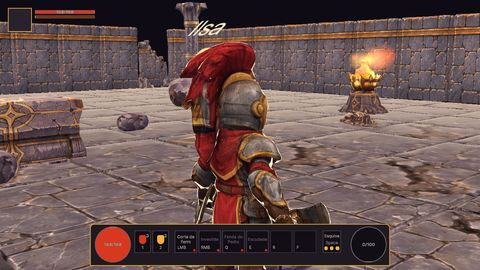
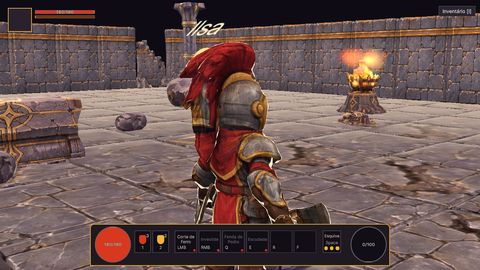
feat(painel): inventário completo e build final da noite

diff --git a/docs/progresso/painel.html b/docs/progresso/painel.html
@@ -99,9 +99,9 @@ table{border-collapse:collapse;width:100%}td,th{text-align:left;padding:6px 10px
 .votacao{--v-fundo:var(--media);--v-borda:var(--clara);--v-texto:var(--perg);--v-mut:var(--clara);--v-nome:var(--ouro-claro);--v-destaque:var(--ouro);--v-campo:var(--noite);--v-botao:var(--ouro);--v-botao-txt:var(--noite)}.v-tit{font-family:var(--f-txt)}.topo a{color:var(--ouro-claro)}</style>
 <main>
 <section class="topo"><h1>Echoes of the Shatter</h1>
-<p class="sub">Etapa 2 quase toda entregue; Etapa 3 em andamento. Atualizado em 17/10/2026.</p>
+<p class="sub">Etapa 2 quase toda entregue; Etapa 3 em andamento (inventário pronto). Atualizado em 17/10/2026.</p>
 <p class="sub"><a href="#aguardando">Votar nas perguntas</a> · <a href="https://claude.ai/artifact/5G5WBocgrp8NAeLKiF9FP8" target="_blank" rel="noopener">Roteiro completo: documentos e artes ↗</a></p>
-<p class="dest"><b>Teste o jogo: abra D:\openclaude\Builds\Echoes_Cripta_dev\EchoesOfTheShatter.exe</b><span>Build jogável com menu e escolha de herói (Arqueiro e Mago como prévia visual), Refúgio com a Ilsa (expedição) e o Tico (relatório), save com backups e expedição idle de ponta a ponta. Cripta e Refúgio com cenário pintado (26 peças) e fogo; inimigos pintados e animados; Guerreiro modular com armadura em peças; HUD com barra do chefe e fila de avisos. 238 EditMode e 11 PlayMode; cerca de 1 ms por quadro numa RTX 4060 Ti (não é o PC de entrada). Controles no LEIA-ME.txt; roteiro no docs/10.</span></p>
+<p class="dest"><b>Teste o jogo: abra D:\openclaude\Builds\Echoes_Cripta_dev\EchoesOfTheShatter.exe</b><span>Build jogável com menu e escolha de herói (Arqueiro e Mago como prévia visual), Refúgio com a Ilsa (expedição) e o Tico (relatório), save com backups e expedição idle de ponta a ponta. Cripta e Refúgio com cenário pintado (26 peças) e fogo; inimigos pintados e animados; Guerreiro modular com armadura em peças; HUD com barra do chefe e fila de avisos. 238 EditMode e 11 PlayMode; cerca de 1 ms por quadro numa RTX 4060 Ti (não é o PC de entrada). Controles no LEIA-ME.txt; roteiro no docs/10. Agora com inventário completo (seção 4 do LEIA-ME): loot no chão com feixe de raridade, tela na tecla I com boneco modular, tooltip com comparação e valor de venda, Mochila 40 e Baú 100 [HIPÓTESE].</span></p>
 <div class="faixa">
 <a class="andamento" href="#s-arte"><b>Direção de arte</b>Em andamento</a>
 <a class="andamento" href="#s-design"><b>Game Design</b>Em andamento</a>
@@ -116,10 +116,10 @@ table{border-collapse:collapse;width:100%}td,th{text-align:left;padding:6px 10px
 <a class="andamento" href="#s-producao"><b>Produção</b>Em andamento</a>
 </div>
 <div class="cont">
-<div>16<span>aguardando você</span></div>
+<div>15<span>aguardando você</span></div>
 <div>0<span>sessões na nuvem</span></div>
 <div>5/11<span>setores concluídos</span></div>
-<div>13/15<span>marcos</span></div>
+<div>14/16<span>marcos</span></div>
 </div>
 <div class="etapas">
 <div class="etapa concluido"><b>Etapa 1</b>Base técnica<br><span class="pil concluido"><i></i>Concluído</span></div>
@@ -146,7 +146,6 @@ table{border-collapse:collapse;width:100%}td,th{text-align:left;padding:6px 10px
 <article class="card alerta pend"><h3>Para que serve o Ouro</h3><p class="perg">No protótipo, para que serve o Ouro?</p><details open><summary>Contexto</summary><p>Baús e inimigos já dão Ouro, mas o protótipo não tem onde gastar.</p><p>Itens de raridade sobem de valor de venda; o core vai calcular o valor de venda por nível e raridade.</p></details><div class="votacao" data-q="uso-do-ouro"></div><span class="arq">docs/16_etapa3_fluxo.md (Q3-3)</span></article>
 <article class="card alerta pend"><h3>Segundo visual de armadura</h3><p class="perg">Fazemos já um segundo conjunto de armadura do Guerreiro (por exemplo, o de raridade Rara) para ver o equipamento mudando o visual no protótipo?</p><details open><summary>Contexto</summary><p>Os heróis são modulares: cada peça troca com o item equipado.</p><p>Hoje só existe o conjunto inicial; itens Mágicos e Raros mudam só a tinta do tecido.</p><p>Um conjunto novo segue o mesmo caminho: folha do herói vestido no gpt-image, modelo 3D, acabamento e corte em 5 peças. Você aprova a arte antes.</p></details><div class="votacao" data-q="segundo-conjunto"></div><span class="arq">docs/16_etapa3_fluxo.md (Q3-4)</span></article>
 <article class="card alerta pend"><h3>Baixar as animações do Mixamo</h3><p class="perg">Você baixa agora as animações do Mixamo da lista em docs/arte/animacao_mixamo.md?</p><details open><summary>Contexto</summary><p>Precisa da sua conta Adobe.</p><p>Não bloqueia nada: o pacote CC0 e o Blender por script já cobrem o básico.</p></details><div class="votacao" data-q="mixamo-download"></div><span class="arq">docs/arte/animacao_mixamo.md</span></article>
-<article class="card alerta pend"><h3>Iniciar a sessão de inventário e equipamento</h3><p class="perg">Iniciamos agora a sessão de inventário e equipamento da Etapa 3 na nuvem, ou fazemos no PC?</p><details open><summary>Contexto</summary><p>Faltam o inventário, o loot no chão e as telas finais para fechar a Etapa 3.</p><p>As telas finais esperam a aprovação dos mockups.</p><p>A sessão fica como cartão para você iniciar.</p></details><div class="votacao" data-q="iniciar-sessao-inventario"></div><span class="arq">docs/16_etapa3_fluxo.md</span></article>
 </div>
 <h2>Marcos</h2><ul class='marcos'>
 <li class="ok"><i></i><span>Visual e arquitetura definidos</span><span class="mut peq">feito</span></li>
@@ -164,6 +163,7 @@ table{border-collapse:collapse;width:100%}td,th{text-align:left;padding:6px 10px
 <li class="ok"><i></i><span>Build jogável v0.1 (Windows)</span><span class="mut peq">feito</span></li>
 <li class="ok"><i></i><span>Modelos pintados e animações na Cripta</span><span class="mut peq">feito</span></li>
 <li class="ok"><i></i><span>Etapa 3: save, Refúgio e expedição idle prontos</span><span class="mut peq">feito</span></li>
+<li class="ok"><i></i><span>Etapa 3: inventário completo no jogo</span><span class="mut peq">feito</span></li>
 </ul>
 <h2>Setores</h2><div class='grade'>
 <article class="card" id="s-arte"><header><div><h3>Direção de arte</h3><span class="mut peq">Art Director</span></div><span class="pil andamento"><i></i>Em andamento</span></header>
@@ -188,7 +188,7 @@ table{border-collapse:collapse;width:100%}td,th{text-align:left;padding:6px 10px
 <li>Documento de dados<span class="arq">docs/06_dados.md</span></li>
 </ul><p class="prox"><b>Próximo passo:</b> Ajustar números quando o Game Designer rever o balanceamento do idle.</p></article>
 <article class="card" id="s-conteudo"><header><div><h3>Conteúdo e textos</h3><span class="mut peq">Narrative</span></div><span class="pil concluido"><i></i>Concluído</span></header>
-<p>Textos pt_BR e en; 35 chaves novas da Etapa 2 (incluindo o slot Calça). Mais 177 chaves de texto das telas da Etapa 3.</p><ul>
+<p>Textos pt_BR e en; 35 chaves novas da Etapa 2 (incluindo o slot Calça). Mais 177 chaves de texto das telas da Etapa 3. 6 chaves de texto repetidas removidas.</p><ul>
 <li>Resumo do conteúdo e do tom<span class="arq">docs/05_conteudo.md</span></li>
 <li>Textos pt_BR e en (interface, conteúdo, diálogos, expedição)<span class="arq">EchoesOfTheShatter/Content/Data/Loc/*.csv</span></li>
 </ul><p class="prox"><b>Próximo passo:</b> Aguardar a história em criação pelo dono.</p></article>
@@ -200,18 +200,18 @@ table{border-collapse:collapse;width:100%}td,th{text-align:left;padding:6px 10px
 <li>Revisão de código: 0 crítico, 6 alto, 11 médio, 26 baixo<span class="arq">docs/11_revisao_codigo.md</span></li>
 </ul><p class="prox"><b>Próximo passo:</b> Revisar o contrato da API C ampliada.</p></article>
 <article class="card" id="s-backend"><header><div><h3>Backend ShatterCore</h3><span class="mut peq">Backend Engineer</span></div><span class="pil concluido"><i></i>Concluído</span></header>
-<p>Etapa 2 entregue: etapa2/backend no master (merge d9b8eb3) com as 11 regras do docs/13 (poções, esquiva, stun e Guarda Quebrada, escudo e fases do Guardião, elites, Único com garantia, recuo a 0,25), slot legs, save v2 e API C 1.1 com início e coleta de expedição confiáveis. Testes: 146 do core e 21 da API C, mais o validador. Revisão de segurança ok. Falta só a fuga do Cão no simulador. Revisão na nuvem (docs/17) com todos os achados críticos e altos corrigidos; CI verde; fuga do inimigo decidida pelo core; API C 1.3.</p><ul>
+<p>Etapa 2 entregue: etapa2/backend no master (merge d9b8eb3) com as 11 regras do docs/13 (poções, esquiva, stun e Guarda Quebrada, escudo e fases do Guardião, elites, Único com garantia, recuo a 0,25), slot legs, save v2 e API C 1.1 com início e coleta de expedição confiáveis. Testes: 146 do core e 21 da API C, mais o validador. Revisão de segurança ok. Falta só a fuga do Cão no simulador. Revisão na nuvem (docs/17) com todos os achados críticos e altos corrigidos; CI verde; fuga do inimigo decidida pelo core; API C 1.3. Inventário, equipamento, comparação, venda e loot no chão no core (API C minor 4): 199 testes do core e 27 da API C. Avisos do GCC e do Clang corrigidos, CI verde.</p><ul>
 <li>Motor em C++ já no repositório (dano, efeitos, loot, expedição, save)<span class="arq">ShatterCore/src/*.cpp</span></li>
 <li>Testes do núcleo já no repositório<span class="arq">ShatterCore/tests/*.cpp</span></li>
 <li>CI do núcleo em Linux<span class="arq">.github/workflows/core.yml, manual.yml</span></li>
 <li>CI roda a cada push no núcleo (último sucesso em 3ad87b9)<span class="arq">.github/workflows/core.yml</span></li>
-</ul><p class="prox"><b>Próximo passo:</b> Inventário e equipamento da Etapa 3 (sessão na nuvem pedida); fuga do Cão no simulador.</p></article>
+</ul><p class="prox"><b>Próximo passo:</b> Fuga do Cão já decidida pelo core; próximo: o que a Etapa 3 pedir (uso do Ouro depende de você).</p></article>
 <article class="card" id="s-frontend"><header><div><h3>Frontend Unity</h3><span class="mut peq">Frontend Engineer</span></div><span class="pil andamento"><i></i>Em andamento</span></header>
-<p>PRs #2 e etapa2/frontend no master (merge 8f210d7): DLL real do ShatterCore na Unity, paridade de 1000 golpes com o stub, fallback se a DLL não carregar, movimento no passo fixo, EditMode 131/131. Guerreiro pintado entrou na Unity com o shader de rim (merge 7c1dbb6, EditMode 137/137). Merge a4c1881: o gameplay consulta o core em todas as regras e o C# não calcula mais regra (EditMode 154/154). Merge 83e789d: Cripta jogável (Assets/Scenes/Cripta/Cripta.unity) com 10 salas mais o nicho, corredores de 6 m, arena de 40 m com pilares, 8 encontros, checkpoints com respawn, porta da arena que fecha e Guardião com controlador nativo; 162 testes (EditMode e smoke de PlayMode). Build jogável v0.1 para Windows pronta (tela inicial, Cripta, pausa e opções). Merges 5f62828 (modelos pintados na Cripta), 17f887f e 9c960b4 (animações CC0 com retarget), ec35dea (golpes do Blender, squash no impacto, balanço do Espectro): 190 EditMode e 3 PlayMode. Build com menu, Refúgio (Ilsa e Tico), save com backups, expedição idle, cenário pintado, inimigos animados, Guerreiro modular e HUD do chefe: 238 EditMode e 11 PlayMode, cerca de 1 ms por quadro numa RTX 4060 Ti.</p><ul>
+<p>PRs #2 e etapa2/frontend no master (merge 8f210d7): DLL real do ShatterCore na Unity, paridade de 1000 golpes com o stub, fallback se a DLL não carregar, movimento no passo fixo, EditMode 131/131. Guerreiro pintado entrou na Unity com o shader de rim (merge 7c1dbb6, EditMode 137/137). Merge a4c1881: o gameplay consulta o core em todas as regras e o C# não calcula mais regra (EditMode 154/154). Merge 83e789d: Cripta jogável (Assets/Scenes/Cripta/Cripta.unity) com 10 salas mais o nicho, corredores de 6 m, arena de 40 m com pilares, 8 encontros, checkpoints com respawn, porta da arena que fecha e Guardião com controlador nativo; 162 testes (EditMode e smoke de PlayMode). Build jogável v0.1 para Windows pronta (tela inicial, Cripta, pausa e opções). Merges 5f62828 (modelos pintados na Cripta), 17f887f e 9c960b4 (animações CC0 com retarget), ec35dea (golpes do Blender, squash no impacto, balanço do Espectro): 190 EditMode e 3 PlayMode. Build com menu, Refúgio (Ilsa e Tico), save com backups, expedição idle, cenário pintado, inimigos animados, Guerreiro modular e HUD do chefe: 238 EditMode e 11 PlayMode, cerca de 1 ms por quadro numa RTX 4060 Ti. Inventário no jogo (loot no chão, tecla I, tooltip com comparação, Mochila 40 e Baú 100 [HIPÓTESE], herói construído do save): 250 EditMode e 13 PlayMode.</p><ul>
 <li>Projeto Unity 6.3 URP criado<span class="arq">EchoesOfTheShatter/</span></li>
 <li>Cena base na escala 56 m<span class="arq">EchoesOfTheShatter/Assets/Scenes/Sandbox/Base_Escala.unity</span></li>
 <li>Cripta jogável na escala aprovada<span class="arq">EchoesOfTheShatter/Assets/Scenes/Cripta/Cripta.unity</span></li>
-</ul><p class="prox"><b>Próximo passo:</b> Inventário, loot no chão e telas finais da Etapa 3 (as telas esperam a aprovação dos mockups).</p></article>
+</ul><p class="prox"><b>Próximo passo:</b> Ícones de item, tinta de raridade no boneco e telas finais (esperam a aprovação dos mockups).</p></article>
 <article class="card" id="s-arte_tecnica"><header><div><h3>Arte técnica</h3><span class="mut peq">Artista técnico (Blender)</span></div><span class="pil andamento"><i></i>Em andamento</span></header>
 <p>Modelos pintados e com esqueleto aprovados (Guerreiro, Sentinela, Arauto, Arqueiro Espectral, Guardião, 6 armas) e já na Cripta. Heróis modulares do Guerreiro e do Arqueiro cortados do modelo vestido (corpo em 6 regiões mais 5 peças). Animação por CC0, Mixamo opcional e Blender por script; Kimodo pausado. Lote 3 (Cão, arco, Mago vestido e modular) e kit do cenário pintado (26 peças) em produção. O TripoSG passou a usar cerca de 5 GB (pesos em fp16).</p><ul>
 <li>Graybox dos 3 heróis, inimigos e chefe (Blender e FBX)<span class="arq">art-src/graybox/</span></li>
@@ -234,6 +234,19 @@ table{border-collapse:collapse;width:100%}td,th{text-align:left;padding:6px 10px
 </ul><p class="prox"><b>Próximo passo:</b> Fechar a Etapa 2 e preparar a Etapa 3.</p></article>
 </div>
 <h2>Linha do tempo</h2><ul class='linha'>
+<li><code>142eb80</code><span class="dt">17/10/2026</span><br>Merge etapa2/frontend: build final com Loc corrigido e DLL nova; 250 + 13 testes</li>
+<li><code>0c88fed</code><span class="dt">17/10/2026</span><br>chore(build): DLL recompilada do master e build final</li>
+<li><code>a9cd326</code><span class="dt">17/10/2026</span><br>docs(claude): avisos do GCC e do Clang que o MSVC local não pega</li>
+<li><code>5cc6942</code><span class="dt">17/10/2026</span><br>fix(core): avisos de GCC e Clang que quebravam o CI (-Wtype-limits no inventário, -Wrange-loop-construct no teste)</li>
+<li><code>6b429a2</code><span class="dt">17/10/2026</span><br>fix(loc): remove chaves repetidas do inventário entre Narrative e Frontend (Mochila e Baú ficam com a contagem)</li>
+<li><code>927aa6a</code><span class="dt">17/10/2026</span><br>Merge etapa2/frontend: Etapa 3 parte 3 (loot no chão com feixe de raridade, inventário com boneco modular, tooltip com comparação, herói construído do save); 250 + 13 testes</li>
+<li><code>5661deb</code><span class="dt">17/10/2026</span><br>feat(client): etapa 3 parte 3 - loot no chao, inventario com boneco, tooltip e comparacao pelo core (API C 1.4)</li>
+<li><code>c57d5a7</code><span class="dt">17/10/2026</span><br>Merge etapa2/backend: inventário, equipamento, comparação, venda e loot no chão no core (API C minor 4)</li>
+<li><code>47a8499</code><span class="dt">17/10/2026</span><br>chore(painel): pendência da sessão de inventário resolvida (feita no PC)</li>
+<li><code>17419b3</code><span class="dt">17/10/2026</span><br>feat(core): inventário, equipamento, venda e loot no chão (API C 1.4)</li>
+<li><code>3fa4489</code><span class="dt">17/10/2026</span><br>Merge etapa2/frontend: build final da noite (LEIA-ME completo, -devkeys para as peças da armadura); 238 + 11 testes</li>
+<li><code>67e3d5a</code><span class="dt">17/10/2026</span><br>docs(build): LEIA-ME completo para o dono; -devkeys liga as teclas F1-F7 na build de release</li>
+<li><code>d75afd7</code><span class="dt">17/10/2026</span><br>feat(painel): estado da manhã (build com cenário pintado e herói modular, Etapa 3 em andamento)</li>
 <li><code>80433ef</code><span class="dt">17/10/2026</span><br>Merge etapa2/frontend: -bossshot/-perf/-shots com autostart e capturas em runtime (armadura modular confirmada no player)</li>
 <li><code>a3f8498</code><span class="dt">17/10/2026</span><br>fix(player): -bossshot/-perf/-shots entram sozinhos no jogo; modo -shots do player com capturas runtime_*; logs de etapa e timeout</li>
 <li><code>71a1324</code><span class="dt">17/10/2026</span><br>Merge etapa2/frontend: Cripta e Refúgio com o kit pintado (26 peças), fogo com luzes limitadas, NavMesh nova, modo -perf; 238 + 11 testes</li>
@@ -419,12 +432,12 @@ table{border-collapse:collapse;width:100%}td,th{text-align:left;padding:6px 10px
 <article class="card"><h3>Peças modulares cortadas do herói vestido</h3><p>As peças geradas isoladas pela IA não serviram; o corte do modelo vestido aprovado funcionou.</p><span class="arq">17/10/2026</span></article>
 </div>
 <h2>Galeria de arte</h2>
-<div class="abas"><button data-f="todas" aria-pressed="true">Todas (78)</button>
+<div class="abas"><button data-f="todas" aria-pressed="true">Todas (79)</button>
 <button data-f="referencias" aria-pressed="false">Referências (24)</button>
 <button data-f="modelagem" aria-pressed="false">Modelagem (9)</button>
 <button data-f="modulares" aria-pressed="false">Heróis modulares (6)</button>
 <button data-f="aguardando" aria-pressed="false">Aguardando aprovação (6)</button>
-<button data-f="nojogo" aria-pressed="false">No jogo (11)</button>
+<button data-f="nojogo" aria-pressed="false">No jogo (12)</button>
 <button data-f="cenario" aria-pressed="false">Cenário da Cripta (6)</button>
 <button data-f="modelos3d" aria-pressed="false">Modelos 3D (12)</button>
 <button data-f="graybox" aria-pressed="false">Graybox (4)</button>
@@ -507,10 +520,10 @@ table{border-collapse:collapse;width:100%}td,th{text-align:left;padding:6px 10px
 <figure class="ag" data-k="nojogo"><img src="thumbs/nojogo_herois3.jpg" alt="Os três heróis no jogo" loading="lazy"><figcaption><b>Os três heróis no jogo</b>Captura do build. Em produção.<br><span class="pil andamento"><i></i>Em produção</span></figcaption></figure>
 <figure class="ag" data-k="modelos3d"><img src="thumbs/modelos3d__prancha_lote3_final.jpg" alt="Lote 3: Cão, arco, Mago vestido e modular" loading="lazy"><figcaption><b>Lote 3: Cão, arco, Mago vestido e modular</b>Derivado de arte aprovada. Em produção.<br><span class="pil andamento"><i></i>Em produção</span></figcaption></figure>
 <figure class="ag" data-k="modelos3d"><img src="thumbs/modelos3d__prancha_cenario_final.jpg" alt="Kit do cenário pintado" loading="lazy"><figcaption><b>Kit do cenário pintado</b>Derivado de arte aprovada. Em produção.<br><span class="pil andamento"><i></i>Em produção</span></figcaption></figure>
+<figure class="ag" data-k="nojogo"><img src="thumbs/nojogo__inv_prancha.jpg" alt="Inventário no jogo" loading="lazy"><figcaption><b>Inventário no jogo</b>Tela de inventário (tecla I), boneco modular, tooltip com comparação e loot no chão. Em produção.<br><span class="pil andamento"><i></i>Em produção</span></figcaption></figure>
 </div>
 <h2>Sessões na nuvem</h2><div class='grade'>
 <article class="card"><header><h3>1. Revisão do ShatterCore da Etapa 2 (Linux)</h3><span class="pil nuvem"><i></i>Na nuvem</span></header><p class="mut peq">Backend - iniciada em 17/10/2026</p><p>Relatório no docs/17.</p><p class="prox"><b>Resultado:</b> Concluída: achados críticos e altos corrigidos; CI do GitHub verde de novo.</p></article>
-<article class="card"><header><h3>2. Core: inventário e equipamento da Etapa 3</h3><span class="pil nuvem"><i></i>Na nuvem</span></header><p class="mut peq">Backend - iniciada em 17/10/2026</p><p>Aguarda você iniciar (veja Aguardando você).</p><p class="prox"><b>Resultado:</b> Ainda não começou.</p></article>
 </div>
 <h2>Infraestrutura</h2><div class='tab'><table><tr><th>Item</th><th>Detalhe</th></tr>
 <tr><td>Unity 6.3 LTS (6000.3.26f1)</td><td>D:\Unity\Editors, com módulo IL2CPP</td></tr>
@@ -533,7 +546,7 @@ b.forEach(function(x){x.addEventListener('click',function(){var k=x.dataset.f;
 b.forEach(function(y){y.setAttribute('aria-pressed',y===x)});
 f.forEach(function(g){g.hidden=!(k==='todas'||g.dataset.k===k)})})})})();
 </script>
-<script type="application/json" id="votacao-dados">[{"id": "tinta-classe-capuz", "opcoes": [{"id": "a", "nome": "Sim: raridade na capa, classe no capuz (proposta)", "efeito": "A raridade aparece bem de longe; a classe continua reconhecível pelo capuz, que nunca muda de cor."}, {"id": "b", "nome": "Raridade só no brilho e nos detalhes", "efeito": "Capa e manto ficam sempre na cor da classe; a raridade aparece só no brilho da borda e em pequenos detalhes, mais discreta."}, {"id": "c", "nome": "Raridade em tudo que é tecido, inclusive o capuz", "efeito": "Máxima leitura da raridade, mas a classe passa a ser lida só pela silhueta."}]}, {"id": "endgame-etapa", "opcoes": [{"id": "A", "nome": "A. Junto na etapa 4", "efeito": "Uma etapa só, maior e mais longa. O Acesso Antecipado só começa depois que tudo estiver pronto e testado de uma vez."}, {"id": "B", "nome": "B. Etapa própria depois do Ato I", "efeito": "O Ato I fecha e é testado primeiro; o endgame é balanceado em cima de um Ato I estável. Ganha um portão de teste a mais e o Acesso Antecipado vira a etapa 6."}, {"id": "C", "nome": "C. Fora do Acesso Antecipado", "efeito": "O endgame entra como atualização depois do lançamento. Lança mais cedo, mas muda o que o plano promete e o lançamento sai com menos conteúdo."}]}, {"id": "guardiao-sem-loot", "opcoes": [{"id": "A", "nome": "A. Sim, fica assim", "efeito": "A etapa 2 fecha mais rápido e o teste foca só no combate. A recompensa chega na etapa 3."}, {"id": "B", "nome": "B. Só o efeito do Único na etapa 2", "efeito": "O Guardião deixa cair o Único como efeito visual (coluna de luz e som), sem inventário. Dá a sensação de recompensa no teste, mas puxa trabalho de arte e efeito para antes."}, {"id": "C", "nome": "C. Loot e inventário inteiros na etapa 2", "efeito": "A etapa 2 fica bem maior e parte da etapa 3 vem antes."}]}, {"id": "demo-next-fest", "opcoes": [{"id": "A", "nome": "A. Etapa própria entre a 3 e a 4", "efeito": "Segue o plano: mede o interesse do público antes da parte mais cara. Obriga a adiantar CNPJ, Steam Direct e página da loja."}, {"id": "B", "nome": "B. Dentro da etapa 3", "efeito": "A etapa 3 cresce: além do ciclo completo, precisa da Estrada das Lanternas, da página da loja e de um build para a Steam."}, {"id": "C", "nome": "C. Sem demo por enquanto", "efeito": "Foco total em chegar ao Acesso Antecipado. Perde o termômetro de wishlists e a vitrine do festival. Dá para decidir de novo ao fim da etapa 3."}]}, {"id": "calibracao-idle", "opcoes": [{"id": "A", "nome": "A. Mantém na etapa 4", "efeito": "A etapa 3 fica mais curta e o teste do ciclo usa números estimados com selo. A calibração é feita uma vez só, quando as 3 classes já existirem."}, {"id": "B", "nome": "B. Antecipa para a etapa 3", "efeito": "A expedição já sai confiável no teste do ciclo, mas calibra só o Guerreiro. Arqueiro e Mago precisarão de nova calibração na etapa 4, e o robô de teste vira trabalho extra mais cedo."}]}, {"id": "capsulas-steam", "opcoes": [{"id": "A", "nome": "A. Artista contratado", "efeito": "Segue a política do plano e evita críticas a cápsula feita por IA. Tem custo e prazo, e exige contrato de cessão de direitos com o artista."}, {"id": "B", "nome": "B. IA declarada", "efeito": "Rápido, barato e coerente com o resto da arte. Parte do público reage mal a cápsulas feitas por IA."}, {"id": "C", "nome": "C. Mista", "efeito": "IA para compor a cena e artista pintando por cima. Custo intermediário; o uso de IA continua tendo de ser declarado."}]}, {"id": "registros-quem", "opcoes": [{"id": "A", "nome": "A. Você cuida de tudo", "efeito": "Concentra as decisões, mas divide seu tempo com a produção do jogo."}, {"id": "B", "nome": "B. Seu sócio assume a parte burocrática", "efeito": "Você acompanha a produção e ele toca CNPJ, Steam e registros."}, {"id": "C", "nome": "C. Contador e advogado", "efeito": "Contador para CNPJ e impostos; advogado só para marca e contratos. Tem custo, mas reduz o risco de erro."}]}, {"id": "registros-quando", "opcoes": [{"id": "A", "nome": "A. Começar já", "efeito": "A página entra no ar mais cedo e as wishlists se acumulam por mais tempo. O gasto com CNPJ e Steam Direct vem antes de haver jogo pronto."}, {"id": "B", "nome": "B. Junto com a demo", "efeito": "Segue o plano: CNPJ e conta na Steam no começo da fase da demo, com a página no ar antes do Next Fest. Depende da decisão sobre a demo."}, {"id": "C", "nome": "C. Só na etapa 5", "efeito": "Adia o gasto e a burocracia para quando o jogo estiver quase pronto. A página entra tarde e o lançamento sai com menos wishlists."}]}, {"id": "paginacao-windows", "opcoes": [{"id": "A", "nome": "A. Tudo para o D:", "efeito": "Libera todo o espaço do arquivo no C:. O D: precisa ter espaço livre sobrando."}, {"id": "B", "nome": "B. Pequeno no C: e o resto no D:", "efeito": "Deixa 2 a 4 GB no C: (o Windows usa para relatórios de travamento) e coloca o principal no D:."}, {"id": "C", "nome": "C. Não mexer agora", "efeito": "Libera espaço no C: de outra forma. O risco de travar por falta de memória continua."}]}, {"id": "historia", "opcoes": [{"id": "A", "nome": "A. Você escreve sozinho", "efeito": "A história fica inteira na sua mão. A equipe só adapta os textos ao formato do jogo."}, {"id": "B", "nome": "B. Você e seu sócio", "efeito": "Divide o trabalho. Vale combinar quem tem a palavra final."}, {"id": "C", "nome": "C. Proposta do agente de narrativa", "efeito": "O agente escreve uma versão a partir do que existe, e vocês cortam e ajustam. É mais rápido, mas a voz final depende da revisão de vocês."}]}, {"id": "save-slots", "opcoes": [{"id": "a", "nome": "1 slot", "efeito": "Mais simples: o jogo abre direto na partida. Menos tela para fazer na Etapa 3."}, {"id": "b", "nome": "3 slots", "efeito": "Permite partidas separadas (por exemplo, testar classes). Precisa da tela de seleção de save."}]}, {"id": "jogar-durante-expedicao", "opcoes": [{"id": "a", "nome": "Não: herói ocupado (proposta)", "efeito": "Enquanto a expedição roda, a Cripta fica bloqueada para esse herói; o jogador volta depois para coletar."}, {"id": "b", "nome": "Sim, com outro herói", "efeito": "O jogador pode jogar com outro personagem (Arqueiro, Mago). Exige ter mais de um herói já no protótipo."}, {"id": "c", "nome": "Sim, o mesmo herói", "efeito": "A expedição vira só tempo fora do jogo; mais liberdade, mas risco de ganho em dobro."}]}, {"id": "uso-do-ouro", "opcoes": [{"id": "a", "nome": "Vendedor no Refúgio (proposta)", "efeito": "Um vendedor compra os itens que você não quer e vende poções; o loop de loot fica completo."}, {"id": "b", "nome": "Só melhorias", "efeito": "O Ouro serve para melhorar o equipamento (reforjar afixos) no ferreiro; sem compra e venda."}, {"id": "c", "nome": "Sem uso por enquanto", "efeito": "O Ouro só acumula no protótipo; o uso entra na versão 1.0."}]}, {"id": "segundo-conjunto", "opcoes": [{"id": "a", "nome": "Sim, um conjunto novo do Guerreiro", "efeito": "No protótipo dá para ver a armadura realmente mudando de forma ao equipar um item raro."}, {"id": "b", "nome": "Não, só a tinta por enquanto", "efeito": "Economiza tempo agora; conjuntos novos entram na Etapa 4."}]}, {"id": "mixamo-download", "opcoes": [{"id": "a", "nome": "Baixo agora", "efeito": "Mais variedade de golpes já nesta etapa."}, {"id": "b", "nome": "Depois", "efeito": "Seguimos só com o CC0 e o Blender."}]}, {"id": "iniciar-sessao-inventario", "opcoes": [{"id": "a", "nome": "Iniciar na nuvem", "efeito": "Roda em paralelo, sem pesar a memória do seu PC."}, {"id": "b", "nome": "Fazer no PC", "efeito": "Usa a memória do PC, que continua baixa, mas dá mais controle."}]}]</script>
+<script type="application/json" id="votacao-dados">[{"id": "tinta-classe-capuz", "opcoes": [{"id": "a", "nome": "Sim: raridade na capa, classe no capuz (proposta)", "efeito": "A raridade aparece bem de longe; a classe continua reconhecível pelo capuz, que nunca muda de cor."}, {"id": "b", "nome": "Raridade só no brilho e nos detalhes", "efeito": "Capa e manto ficam sempre na cor da classe; a raridade aparece só no brilho da borda e em pequenos detalhes, mais discreta."}, {"id": "c", "nome": "Raridade em tudo que é tecido, inclusive o capuz", "efeito": "Máxima leitura da raridade, mas a classe passa a ser lida só pela silhueta."}]}, {"id": "endgame-etapa", "opcoes": [{"id": "A", "nome": "A. Junto na etapa 4", "efeito": "Uma etapa só, maior e mais longa. O Acesso Antecipado só começa depois que tudo estiver pronto e testado de uma vez."}, {"id": "B", "nome": "B. Etapa própria depois do Ato I", "efeito": "O Ato I fecha e é testado primeiro; o endgame é balanceado em cima de um Ato I estável. Ganha um portão de teste a mais e o Acesso Antecipado vira a etapa 6."}, {"id": "C", "nome": "C. Fora do Acesso Antecipado", "efeito": "O endgame entra como atualização depois do lançamento. Lança mais cedo, mas muda o que o plano promete e o lançamento sai com menos conteúdo."}]}, {"id": "guardiao-sem-loot", "opcoes": [{"id": "A", "nome": "A. Sim, fica assim", "efeito": "A etapa 2 fecha mais rápido e o teste foca só no combate. A recompensa chega na etapa 3."}, {"id": "B", "nome": "B. Só o efeito do Único na etapa 2", "efeito": "O Guardião deixa cair o Único como efeito visual (coluna de luz e som), sem inventário. Dá a sensação de recompensa no teste, mas puxa trabalho de arte e efeito para antes."}, {"id": "C", "nome": "C. Loot e inventário inteiros na etapa 2", "efeito": "A etapa 2 fica bem maior e parte da etapa 3 vem antes."}]}, {"id": "demo-next-fest", "opcoes": [{"id": "A", "nome": "A. Etapa própria entre a 3 e a 4", "efeito": "Segue o plano: mede o interesse do público antes da parte mais cara. Obriga a adiantar CNPJ, Steam Direct e página da loja."}, {"id": "B", "nome": "B. Dentro da etapa 3", "efeito": "A etapa 3 cresce: além do ciclo completo, precisa da Estrada das Lanternas, da página da loja e de um build para a Steam."}, {"id": "C", "nome": "C. Sem demo por enquanto", "efeito": "Foco total em chegar ao Acesso Antecipado. Perde o termômetro de wishlists e a vitrine do festival. Dá para decidir de novo ao fim da etapa 3."}]}, {"id": "calibracao-idle", "opcoes": [{"id": "A", "nome": "A. Mantém na etapa 4", "efeito": "A etapa 3 fica mais curta e o teste do ciclo usa números estimados com selo. A calibração é feita uma vez só, quando as 3 classes já existirem."}, {"id": "B", "nome": "B. Antecipa para a etapa 3", "efeito": "A expedição já sai confiável no teste do ciclo, mas calibra só o Guerreiro. Arqueiro e Mago precisarão de nova calibração na etapa 4, e o robô de teste vira trabalho extra mais cedo."}]}, {"id": "capsulas-steam", "opcoes": [{"id": "A", "nome": "A. Artista contratado", "efeito": "Segue a política do plano e evita críticas a cápsula feita por IA. Tem custo e prazo, e exige contrato de cessão de direitos com o artista."}, {"id": "B", "nome": "B. IA declarada", "efeito": "Rápido, barato e coerente com o resto da arte. Parte do público reage mal a cápsulas feitas por IA."}, {"id": "C", "nome": "C. Mista", "efeito": "IA para compor a cena e artista pintando por cima. Custo intermediário; o uso de IA continua tendo de ser declarado."}]}, {"id": "registros-quem", "opcoes": [{"id": "A", "nome": "A. Você cuida de tudo", "efeito": "Concentra as decisões, mas divide seu tempo com a produção do jogo."}, {"id": "B", "nome": "B. Seu sócio assume a parte burocrática", "efeito": "Você acompanha a produção e ele toca CNPJ, Steam e registros."}, {"id": "C", "nome": "C. Contador e advogado", "efeito": "Contador para CNPJ e impostos; advogado só para marca e contratos. Tem custo, mas reduz o risco de erro."}]}, {"id": "registros-quando", "opcoes": [{"id": "A", "nome": "A. Começar já", "efeito": "A página entra no ar mais cedo e as wishlists se acumulam por mais tempo. O gasto com CNPJ e Steam Direct vem antes de haver jogo pronto."}, {"id": "B", "nome": "B. Junto com a demo", "efeito": "Segue o plano: CNPJ e conta na Steam no começo da fase da demo, com a página no ar antes do Next Fest. Depende da decisão sobre a demo."}, {"id": "C", "nome": "C. Só na etapa 5", "efeito": "Adia o gasto e a burocracia para quando o jogo estiver quase pronto. A página entra tarde e o lançamento sai com menos wishlists."}]}, {"id": "paginacao-windows", "opcoes": [{"id": "A", "nome": "A. Tudo para o D:", "efeito": "Libera todo o espaço do arquivo no C:. O D: precisa ter espaço livre sobrando."}, {"id": "B", "nome": "B. Pequeno no C: e o resto no D:", "efeito": "Deixa 2 a 4 GB no C: (o Windows usa para relatórios de travamento) e coloca o principal no D:."}, {"id": "C", "nome": "C. Não mexer agora", "efeito": "Libera espaço no C: de outra forma. O risco de travar por falta de memória continua."}]}, {"id": "historia", "opcoes": [{"id": "A", "nome": "A. Você escreve sozinho", "efeito": "A história fica inteira na sua mão. A equipe só adapta os textos ao formato do jogo."}, {"id": "B", "nome": "B. Você e seu sócio", "efeito": "Divide o trabalho. Vale combinar quem tem a palavra final."}, {"id": "C", "nome": "C. Proposta do agente de narrativa", "efeito": "O agente escreve uma versão a partir do que existe, e vocês cortam e ajustam. É mais rápido, mas a voz final depende da revisão de vocês."}]}, {"id": "save-slots", "opcoes": [{"id": "a", "nome": "1 slot", "efeito": "Mais simples: o jogo abre direto na partida. Menos tela para fazer na Etapa 3."}, {"id": "b", "nome": "3 slots", "efeito": "Permite partidas separadas (por exemplo, testar classes). Precisa da tela de seleção de save."}]}, {"id": "jogar-durante-expedicao", "opcoes": [{"id": "a", "nome": "Não: herói ocupado (proposta)", "efeito": "Enquanto a expedição roda, a Cripta fica bloqueada para esse herói; o jogador volta depois para coletar."}, {"id": "b", "nome": "Sim, com outro herói", "efeito": "O jogador pode jogar com outro personagem (Arqueiro, Mago). Exige ter mais de um herói já no protótipo."}, {"id": "c", "nome": "Sim, o mesmo herói", "efeito": "A expedição vira só tempo fora do jogo; mais liberdade, mas risco de ganho em dobro."}]}, {"id": "uso-do-ouro", "opcoes": [{"id": "a", "nome": "Vendedor no Refúgio (proposta)", "efeito": "Um vendedor compra os itens que você não quer e vende poções; o loop de loot fica completo."}, {"id": "b", "nome": "Só melhorias", "efeito": "O Ouro serve para melhorar o equipamento (reforjar afixos) no ferreiro; sem compra e venda."}, {"id": "c", "nome": "Sem uso por enquanto", "efeito": "O Ouro só acumula no protótipo; o uso entra na versão 1.0."}]}, {"id": "segundo-conjunto", "opcoes": [{"id": "a", "nome": "Sim, um conjunto novo do Guerreiro", "efeito": "No protótipo dá para ver a armadura realmente mudando de forma ao equipar um item raro."}, {"id": "b", "nome": "Não, só a tinta por enquanto", "efeito": "Economiza tempo agora; conjuntos novos entram na Etapa 4."}]}, {"id": "mixamo-download", "opcoes": [{"id": "a", "nome": "Baixo agora", "efeito": "Mais variedade de golpes já nesta etapa."}, {"id": "b", "nome": "Depois", "efeito": "Seguimos só com o CC0 e o Blender."}]}]</script>
 <script>/* Votação e comentários por pergunta, gravados no banco do artifact.
  * Um documento por pessoa em votos/<id>, com respostas[<id da pergunta>] = {opcao, comentario, em}.
  * A página traz <script type="application/json" id="votacao-dados"> com [{id, opcoes: [{id, nome, efeito}]}]
